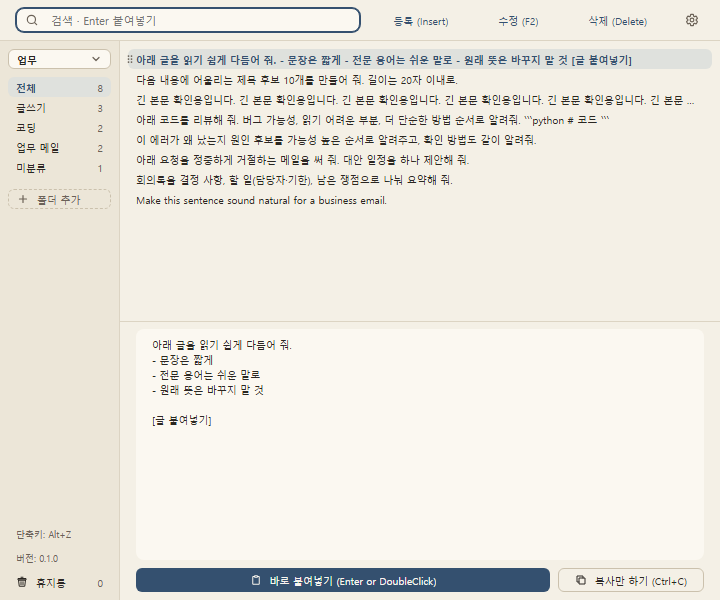
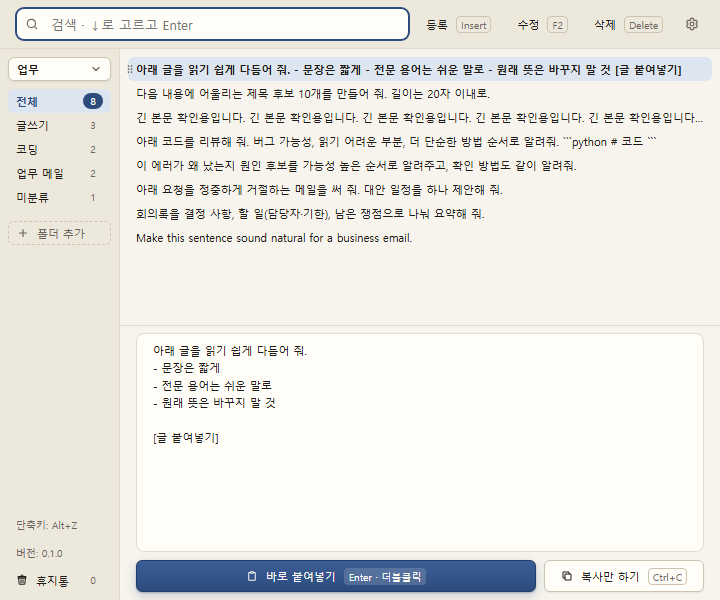
사용 안내서 1.7.4: 새 기본 화면 사진, 스킨·창 크기 안내

diff --git a/README.md b/README.md
@@ -21,7 +21,7 @@
 - 순서는 직접 정합니다. 줄에 마우스를 올리면 왼쪽에 보이는 **⋮⋮**를 잡고 끌어 원하는 자리에 놓거나, **Alt+↑↓**로 옮깁니다. 새로 넣은 텍스트는 맨 위에 들어갑니다.
 - 폴더는 **폴더 추가**로 만들고, 폴더에 마우스를 올리면 보이는 **⋯**(또는 오른쪽 클릭)으로 이름을 바꾸거나 지웁니다. 텍스트를 폴더로 끌어 놓거나 등록·수정 창의 폴더 선택칸에서 고르면 옮겨집니다.
 - 업무마다 따로 쓰려면 왼쪽 맨 위 **카테고리** 버튼(처음엔 '기본')을 눌러 **카테고리 추가**로 만들고, 같은 메뉴에서 골라 바꿉니다. 고른 카테고리의 폴더·텍스트만 보이고 검색도 그 안에서만 합니다. 폴더는 **⋯** 메뉴에서 다른 카테고리로 옮길 수 있습니다. 카테고리를 삭제하면 안의 텍스트는 휴지통으로 가고, 복원하면 원래 카테고리·폴더가 다시 생깁니다.
-- 오른쪽 위 톱니 버튼(**설정**)에서 단축키를 바꾸고, Windows 시작 시 자동 실행, 복사할 때 효과음을 켜고 끌 수 있습니다.
+- 오른쪽 위 톱니 버튼(**설정**)에서 단축키를 바꾸고, Windows 시작 시 자동 실행, 복사할 때 효과음을 켜고 끌 수 있습니다. **스킨**에서 화면 색을 고를 수 있습니다(한지·한지 결·먹·먹 결). **창 크기**는 작게·보통·크게 중에서 고르고, 창 모서리를 끌어 바꾼 크기는 다음에 켤 때도 그대로입니다.
 
 ## 알아 둘 것
 
